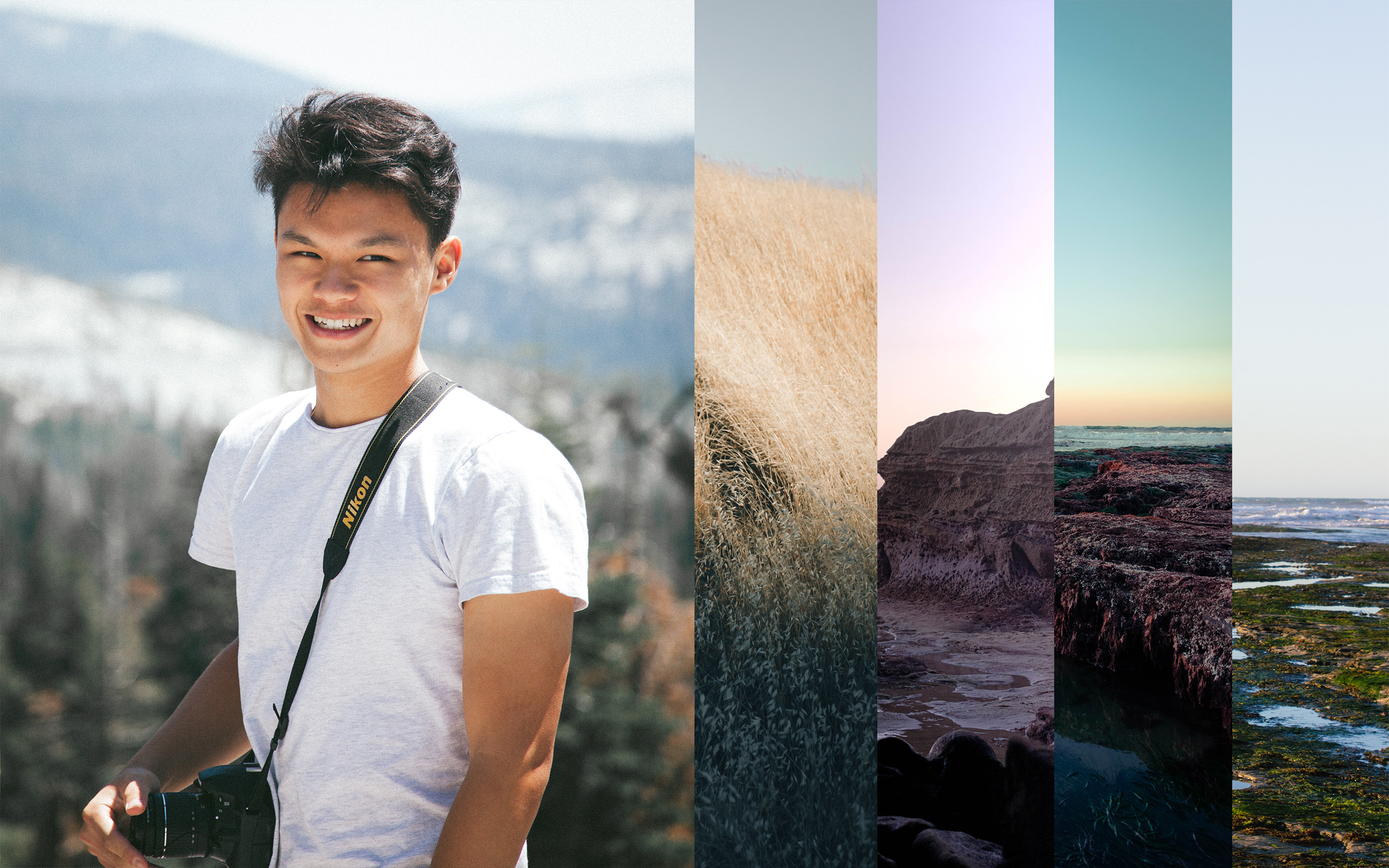
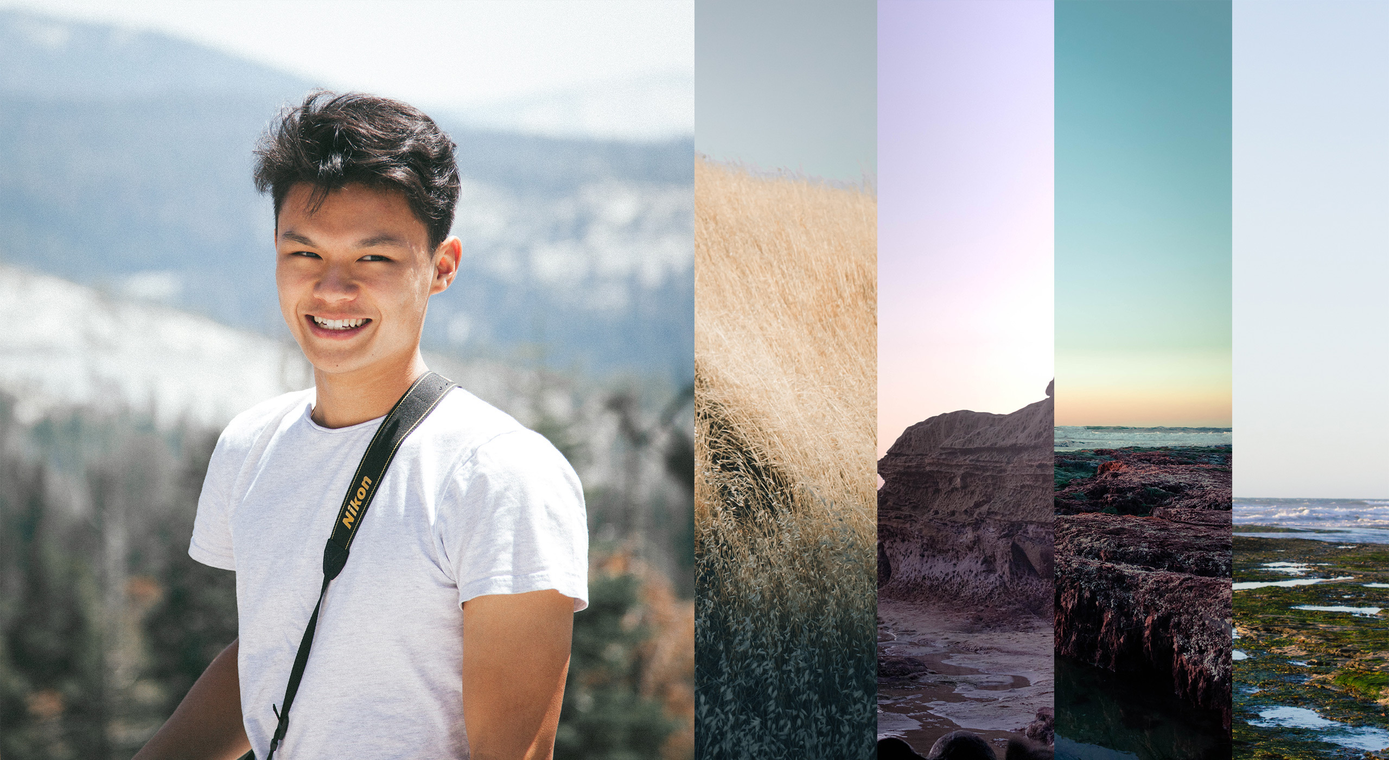
fix parallax

diff --git a/style/aboutStyle.css b/style/aboutStyle.css
@@ -1,6 +1,7 @@
 /*-----------------------------RESPONSIVENESS*/
 @media only screen and (max-width: 767px) {
-  body .about-container { width: 100%; margin-bottom: 10vw; }
+  body #about-container { width: 100%; margin-bottom: 10vw; }
+  body .about-head-container { top: 75vw; }
   body .about-pic img { margin-bottom: 10vw; }
   .about-container .aboutHeader { font-size: 1.8vw; }
   .about-container #about-txt { font-size: 4vw; }
@@ -9,9 +10,14 @@
 }
 
 /*----------------------------------------ABOUT*/
+#about-head-container {
+  top: 60vw;
+}
+
 .about-pic img {
   width: 100%;
   margin-bottom: 5vw;
+  margin-top: -5vw;
 }
 
 .about-container {

diff --git a/about.html b/about.html
@@ -22,7 +22,7 @@
 </head>
 
 <body id="body">
-  <div class="content-margins">
+  <div class="head-container" style="">
     <div id="header">
       <div class="nav"><a href="https://ajzhen.com" id="home-b">Home</a></div>
       <div class="nav"><a href="https://ajzhen.com/about" id="about-b">About</a></div>
@@ -41,7 +41,9 @@
     <section>
       <div class="about-pic"><img src="assets/portrait.jpg"></div>
     </section>
+  </div>
 
+  <div id="content-margins" id="about-head-container">
     <section>
       <div class="about-container">
         <div>

diff --git a/index.html b/index.html
@@ -22,7 +22,7 @@
 </head>
 
 <body id="body">
-  <div class="content-margins">
+  <div class="head-container">
     <div id="header">
       <div class="nav"><a href="https://ajzhen.com" id="home-b">Home</a></div>
       <div class="nav"><a href="https://ajzhen.com/about" id="about-b">About</a></div>
@@ -43,7 +43,9 @@
 
     <div id="white-block"></div>
     <div id="color-block"></div>
-  
+  </div>
+
+  <div id="content-margins">
     <p class="section-header">Work & Involvement</p>
     <section>
       <div class="grid-container-right">

diff --git a/style/sharedStyle.css b/style/sharedStyle.css
@@ -56,6 +56,14 @@ section.visible {
 }
 
 /*----------------------------------HEADER*/
+.head-container {
+  padding-top: 5vw;
+  padding-left: 12vw;
+  padding-right: 12vw;
+  position: fixed;
+  z-index: -2;
+}
+
 .highlight {
   background-image: linear-gradient(transparent, transparent 68%, rgb(188, 240, 224) 68%, rgb(188, 240, 224));
 }

diff --git a/style/workStyle.css b/style/workStyle.css
@@ -112,15 +112,6 @@
   margin-left: 0 !important;
 }
 
-/*---------------------------Head Container*/
-.head-container {
-  padding-top: 5vw;
-  padding-left: 12vw;
-  padding-right: 12vw;
-  position: fixed;
-  z-index: -2;
-}
-
 /*---------------------------Body Container*/
 .body-container {
   display: grid;
